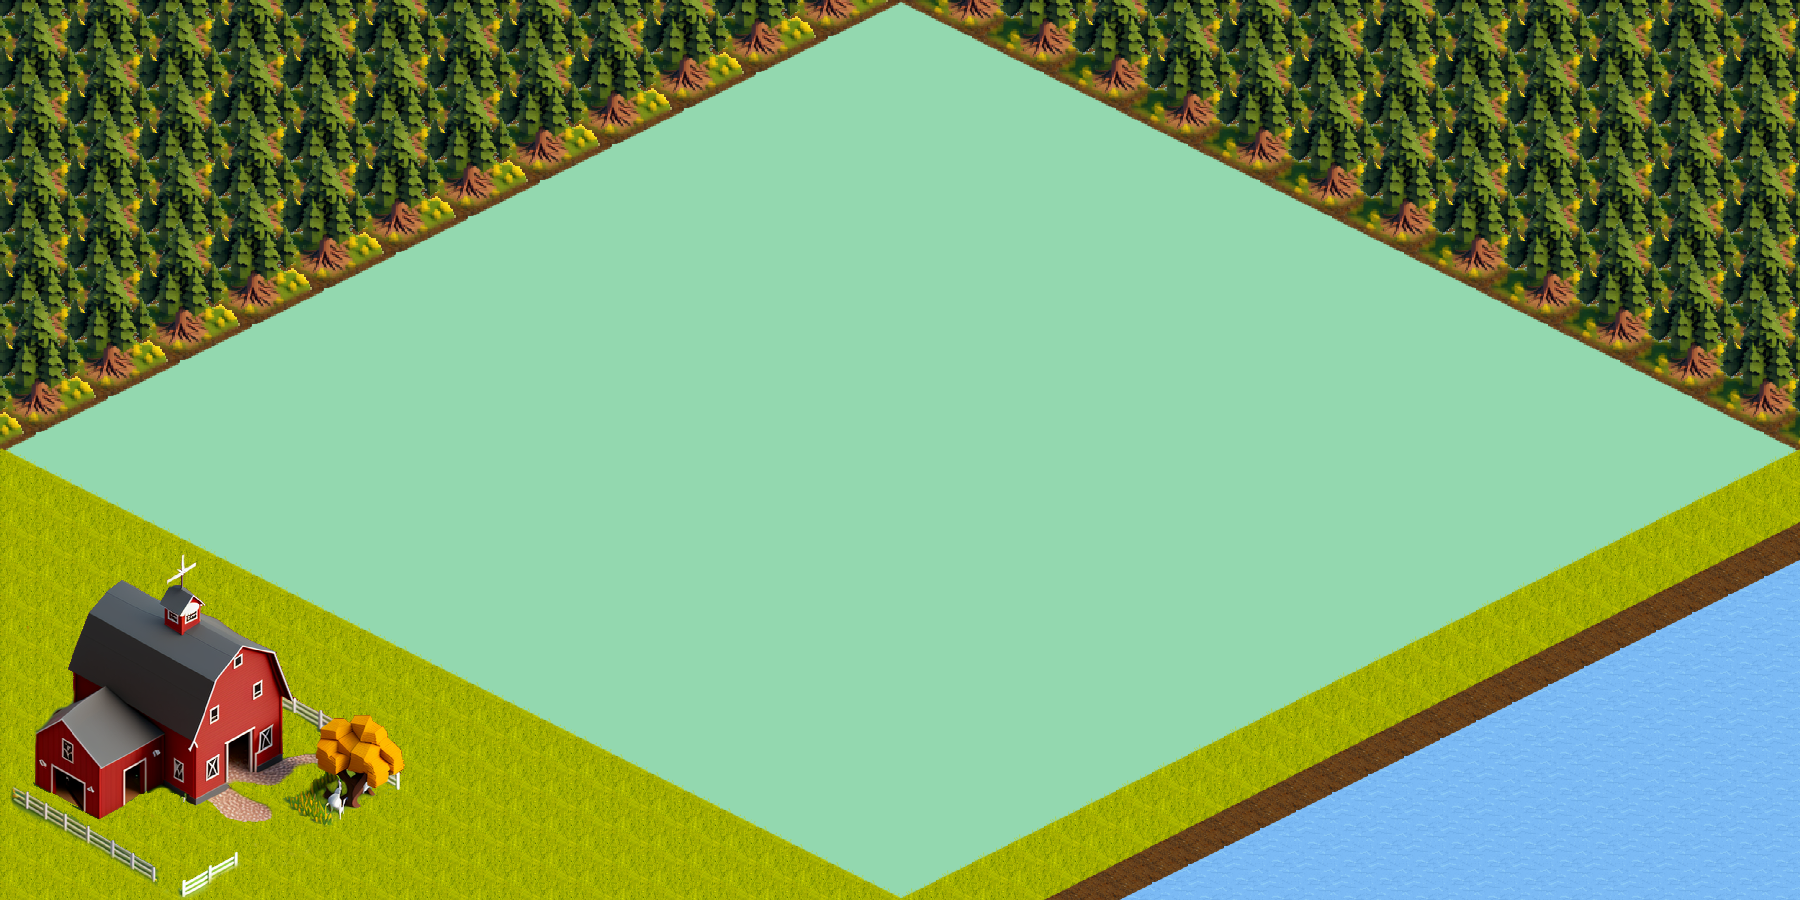
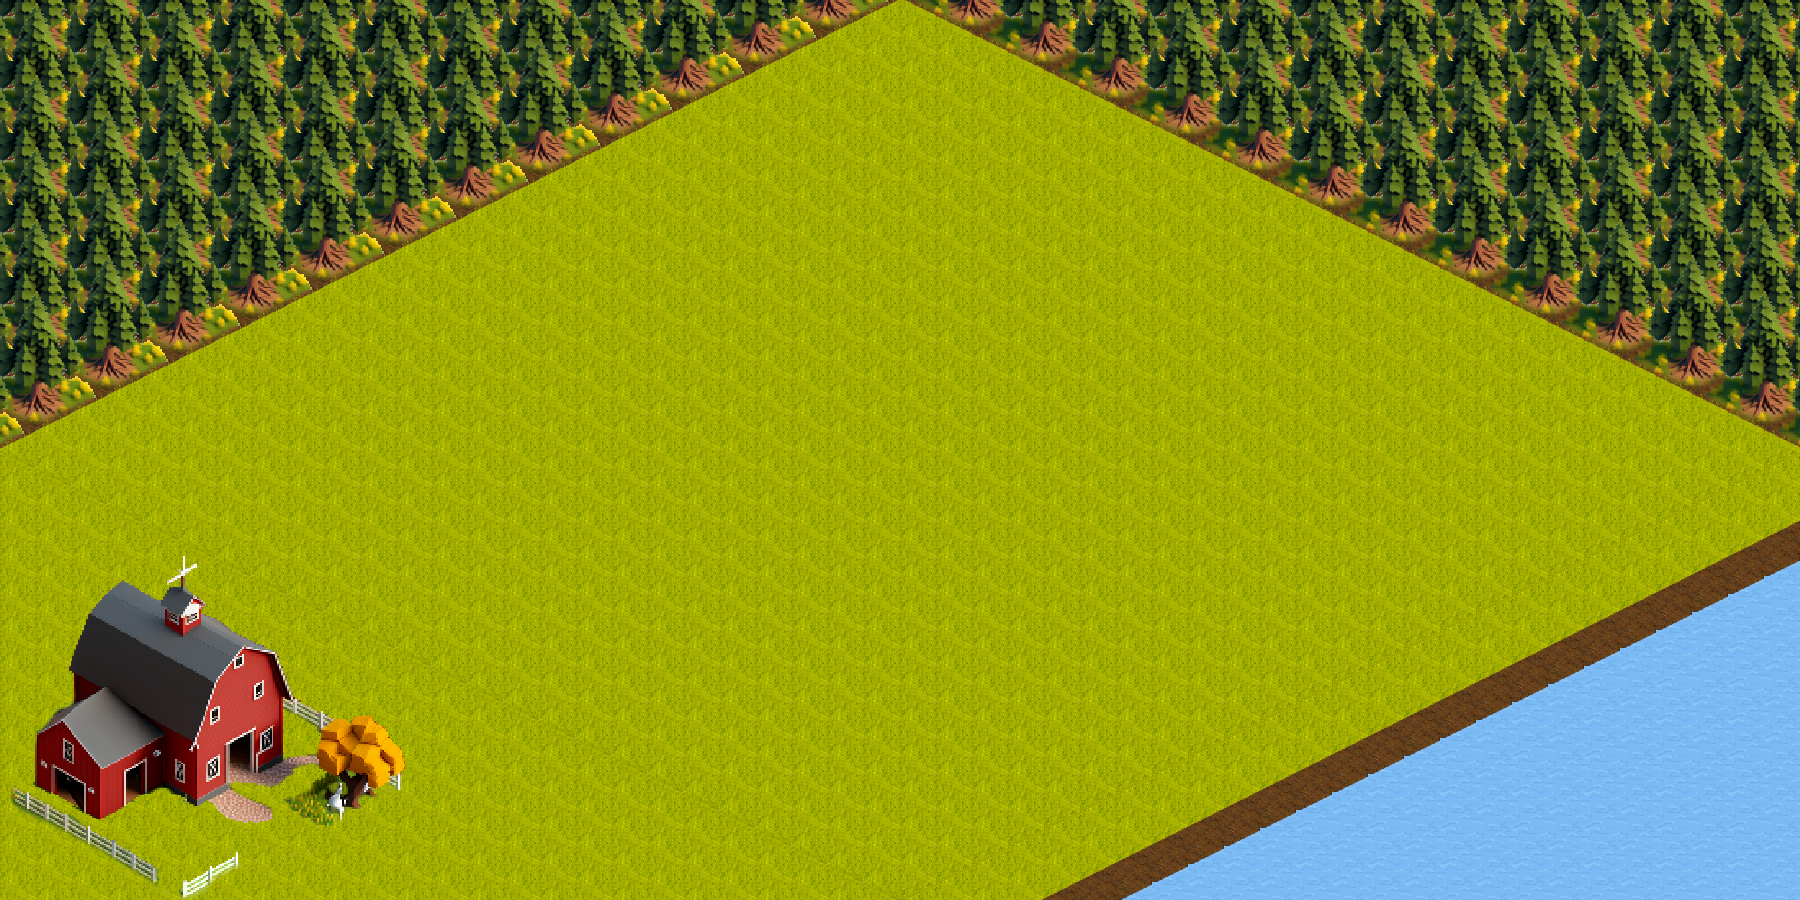
music test

diff --git a/Map.py b/Map.py
@@ -9,10 +9,7 @@ class Map():
         self.tiles = np.zeros((25, 25))
         self.lat = lat
         self.lon = lon
-        for i in range(1, 24):
-            for j in range(1, 24):
-                self.tiles[i][j] = 1
-        print(self.tiles)
+        self.generateTerrain()
 
     def calculateWeather(self):
         pass
@@ -21,9 +18,16 @@ class Map():
         pass
 
     def generateTerrain(self):
-        
+        # fill everything with dirt
+        for i in range(1, 24):
+            for j in range(1, 24):
+                self.tiles[i][j] = 1
 
-    def render(self, screen):
+        # randomly add 10 rocks to the map
+        for i in range(0, 10):
+            self.tiles[randrange(1, 24)][randrange(1, 24)] = 2
+
+    def draw(self, screen):
         for i in range(0, 25):
             for j in range(0, 25):
                 drawTile(screen, i, j, (randrange(110, 120), randrange(210, 220), randrange(140, 150)))
@@ -31,10 +35,15 @@ class Map():
                     drawImageTile(screen, i, j, pygame.image.load("images/grass.png"))
                 elif self.tiles[i][j] == 1:
                     drawImageTile(screen, i, j, pygame.image.load("images/dirt.png"))
-                elif self.tiles[i][j] > 2 and self.tiles[i][j] < 20:
-                    drawImageTile(screen, i, j, pygame.image.load("images/corn.png"))
-                else:
-                    drawImageTile(screen, i, j, pygame.image.load("images/grass.png"))
+                elif self.tiles[i][j] == 2:
+                    # random boolean to determine if rock is on the left or right
+                    rock = pygame.image.load("images/rock.png")
+                    if randrange(0, 2) == 0:
+                        rock = pygame.transform.flip(rock, True, False)
+                    drawImageTile(screen, i, j, rock)
+
+    def drawBackground(selfm, screen):
+        screen.blit(pygame.image.load("images/background.png"), (0, 0))
     
     def generateBackrgound(self, screen):
            # generate background image

diff --git a/Music.py b/Music.py
@@ -1,14 +1,34 @@
 from pygame import mixer
 import pygame
 import array as arr
+import random
+#from Tractor import *
 
 class Music():
     def __init__(self):
+        mixer.init()
+
         self.ambient1 = pygame.mixer.music.load("ambience_birds.mp3")
         self.ambient2 = pygame.mixer.music.load("ambience_tractor.mp3")
 
-        
-        mixer.init()
-        self.music = pygame.mixer.music.load("Farming Song.mp3")
+        #array for ambient sounds
+        array = [self.ambient1, self.ambient2]
+
+
+        #code for farming song
+        #self.music = pygame.mixer.music.load("Farming Song.mp3")
         #self.music = pygame.mixer.music.play(-1)
         #self.music = pygame.mixer.music.set_volume(0.2)
+
+        #code for random ambient sounds
+        pygame.time.set_timer(random.choice(array), 10000)
+
+        #code for tractor noise (not sure if it works, gotta check/test)
+        #self.tractor = pygame.mixer.Sound("ambience_tractor.mp3")
+
+        #while (TRACTOR MOVEMENT IS TRUE):
+            #self.tractor = pygame.mixer.music.play(-1)
+
+        #if (TRACTOR MOVEMENT IS FALSE):
+            #self.tractor = pygame.mixer.music.stop()
+

diff --git a/main.py b/main.py
@@ -7,6 +7,7 @@ import numpy as np
 from Map import *
 from Constants import *
 from Tile import *
+from Tractor import *
 
 def main():
     pygame.init()
@@ -14,18 +15,25 @@ def main():
     screen = pygame.display.set_mode((WIDTH, HEIGHT))
 
     running = True
-
-    background = pygame.image.load("images/background.png")
-    screen.blit(background, (0, 0))
     
     map = Map(0, 0)
-    map.render(screen)
+    map.drawBackground(screen)
+    map.draw(screen)
+
+    tractor = Tractor()
 
     pygame.display.flip()
 
     while running:
-        sleep(1)
+        # stop the game if the user closes the window
+        for event in pygame.event.get():
+            if event.type == pygame.QUIT:
+                running = False
 
+        map.drawBackground(screen)
+
+        tractor.update()
+        
 
 if __name__ == "__main__":
     main()

diff --git a/Tractor.py b/Tractor.py
@@ -6,6 +6,12 @@ class Tractor():
         self.x = 400
         self.y = 800
         self.heading = 45
+    
+    def draw(self, screen):
+        screen.blit(self.image, (self.x, self.y))
+    
+    def update(self):
+        pass
 
 # tractor = pygame.image.load("images/tractor.png")
     # tractor = pygame.transform.scale(tractor, (120, 80))
